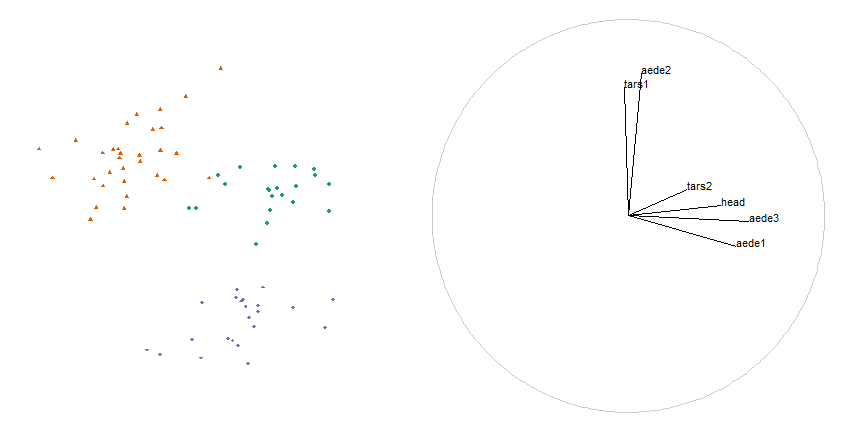
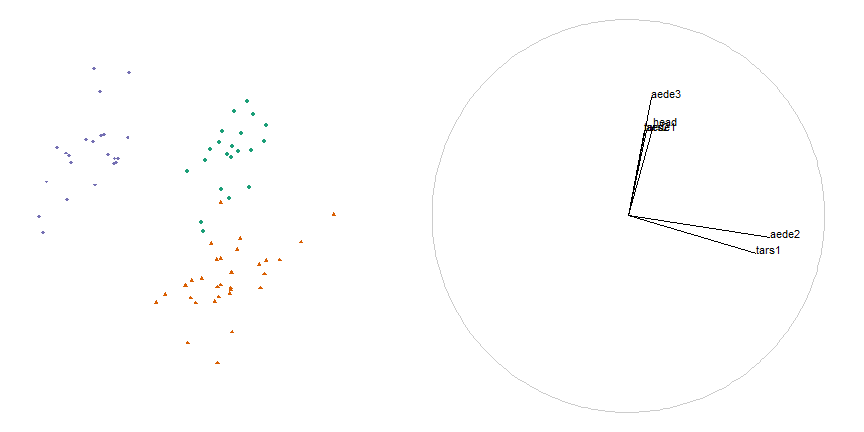
workflo slide and grammerly.

diff --git a/slides_ns.html b/slides_ns.html
@@ -20,7 +20,7 @@ class: center, middle, inverse, title-slide
 
 
 
-# Motivation
+## Motivation
 
 Exploratory data analysis is important and ubiquitous, and it is important to keep visual interpretation: 
 
@@ -30,11 +30,22 @@ Datasaurus dozen; same means, standard deviations, and correlations, *(Matejka &
 
 ---
 
-# Visualizing multivariate spaces
+## Context: data analysis workflow
 
-- Visualization  multivariate spaces becomes complex; dimension reduction
-- One static projection does not portray all of the variation
-- Dynamic rotations do conveys more variation and more accurate structure
+&lt;img src="./images/data_analysis_workflow.png" width="80%" height="80%" style="display: block; margin: auto;" /&gt;
+*Wickham &amp; Grolemund, 2016*
+
+- Visualization is a key aspect of data analysis workflow loop
+- Reproducible from programmatic scripts (&amp; reduced human error)
+- Transparent research hosted publicly on [github](https://github.com/nspyrison).
+
+---
+
+## Visualizing multivariate spaces
+
+- Visualization  multivariate space is complex; dimension reduction
+- Static projections do not portray all of the variation in the data
+- Dynamic rotations do convey more variation and more accurate structure
 
 **Shadow puppet analogy (linear projection from 3- to 2D):**
 
@@ -42,7 +53,7 @@ Datasaurus dozen; same means, standard deviations, and correlations, *(Matejka &
 
 ---
 
-# Dynamic linear projections, tours   
+## Dynamic linear projections, tours   
 
 **Available on CRAN,** `tourr` R package, *(Wickham et al. 2011)*
 
@@ -66,7 +77,7 @@ guided tour - optimizing holes index:
 
 ---
 
-# 3D and immersive 3D data visualization
+## Visualization dimension: 3D and immersive 3D 
 
 Data visualization has lagged behind in adopting 3D and immersive technologies, despite promising finds
 
@@ -88,18 +99,18 @@ Modern VR equipment has improved quality, increased audience, and reduced the co
 
 ---
 
-# Research objectives
+## Research objectives
 &lt;hr&gt;&lt;br&gt;
 
-## 1) How can user-controlled steering (UCS) be generalized to work within graphic-specific environments for 2D projections?
-## 2) Does 2D UCS tours provide benefits over alternatives?
-## 3) How do we extend UCS to 3D?
-## 4) Does UCS in 3D displays provide benefits over 2D displays?
+### 1) How can user-controlled steering (UCS) be generalized to work within graphic-specific environments for 2D projections?
+### 2) Does 2D UCS tours provide benefits over alternatives?
+### 3) How do we extend UCS to 3D?
+### 4) Does UCS in 3D displays provide benefits over 2D displays?
 
 
 ---
 
-# RO 1) How can UCS be generalized to work within graphic-specific environments for 2D projections?
+## RO 1) How can UCS be generalized to work within graphic-specific environments for 2D projections?
 
 - Manual choice - *manual tour* user-controlled manipulation of a selected variable *(Cook &amp; Buja 1997)*
     - Used to explore the sensitivity of the structure to the variables contributing to the projection
@@ -114,14 +125,14 @@ Modern VR equipment has improved quality, increased audience, and reduced the co
 
 ---
 
-# RO1 Step 1) Choose a variable of interest
+## RO1 Step 1) Choose a variable of interest
 
 - Starting with the last projection of the previous holes-indexed guided tour:
 
 
 
 .pull-left[
-&lt;img src="slides_ns_files/figure-html/unnamed-chunk-4-1.png" width="130%" height="130%" style="display: block; margin: auto;" /&gt;
+&lt;img src="slides_ns_files/figure-html/unnamed-chunk-5-1.png" width="130%" height="130%" style="display: block; margin: auto;" /&gt;
 ]
 
 .pull-right[
@@ -136,33 +147,33 @@ Modern VR equipment has improved quality, increased audience, and reduced the co
 &lt;tbody&gt;
   &lt;tr&gt;
    &lt;td style="text-align:left;"&gt; tars1 &lt;/td&gt;
-   &lt;td style="text-align:right;"&gt; -0.0216 &lt;/td&gt;
-   &lt;td style="text-align:right;"&gt; 0.6522 &lt;/td&gt;
+   &lt;td style="text-align:right;"&gt; 0.5626 &lt;/td&gt;
+   &lt;td style="text-align:right;"&gt; -0.2703 &lt;/td&gt;
   &lt;/tr&gt;
   &lt;tr&gt;
    &lt;td style="text-align:left;"&gt; tars2 &lt;/td&gt;
-   &lt;td style="text-align:right;"&gt; 0.3007 &lt;/td&gt;
-   &lt;td style="text-align:right;"&gt; 0.1348 &lt;/td&gt;
+   &lt;td style="text-align:right;"&gt; 0.1659 &lt;/td&gt;
+   &lt;td style="text-align:right;"&gt; 0.4568 &lt;/td&gt;
   &lt;/tr&gt;
   &lt;tr&gt;
    &lt;td style="text-align:left;"&gt; head &lt;/td&gt;
-   &lt;td style="text-align:right;"&gt; 0.4730 &lt;/td&gt;
-   &lt;td style="text-align:right;"&gt; 0.0532 &lt;/td&gt;
+   &lt;td style="text-align:right;"&gt; 0.2855 &lt;/td&gt;
+   &lt;td style="text-align:right;"&gt; 0.2536 &lt;/td&gt;
   &lt;/tr&gt;
   &lt;tr&gt;
    &lt;td style="text-align:left;"&gt; aede1 &lt;/td&gt;
-   &lt;td style="text-align:right;"&gt; 0.5505 &lt;/td&gt;
-   &lt;td style="text-align:right;"&gt; -0.1563 &lt;/td&gt;
+   &lt;td style="text-align:right;"&gt; 0.1462 &lt;/td&gt;
+   &lt;td style="text-align:right;"&gt; 0.4980 &lt;/td&gt;
   &lt;/tr&gt;
   &lt;tr&gt;
    &lt;td style="text-align:left;"&gt; aede2 &lt;/td&gt;
-   &lt;td style="text-align:right;"&gt; 0.0693 &lt;/td&gt;
-   &lt;td style="text-align:right;"&gt; 0.7270 &lt;/td&gt;
+   &lt;td style="text-align:right;"&gt; 0.7108 &lt;/td&gt;
+   &lt;td style="text-align:right;"&gt; -0.2741 &lt;/td&gt;
   &lt;/tr&gt;
   &lt;tr&gt;
    &lt;td style="text-align:left;"&gt; aede3 &lt;/td&gt;
-   &lt;td style="text-align:right;"&gt; 0.6144 &lt;/td&gt;
-   &lt;td style="text-align:right;"&gt; -0.0259 &lt;/td&gt;
+   &lt;td style="text-align:right;"&gt; 0.2189 &lt;/td&gt;
+   &lt;td style="text-align:right;"&gt; 0.5751 &lt;/td&gt;
   &lt;/tr&gt;
 &lt;/tbody&gt;
 &lt;/table&gt;
@@ -172,10 +183,10 @@ Modern VR equipment has improved quality, increased audience, and reduced the co
 
 ---
 
-# RO1 Step 2) Create a manipulation space
+## RO1 Step 2) Create a manipulation space
 
 .pull-left[
-&lt;img src="slides_ns_files/figure-html/unnamed-chunk-6-1.png" width="80%" height="80%" style="display: block; margin: auto;" /&gt;
+&lt;img src="slides_ns_files/figure-html/unnamed-chunk-7-1.png" width="80%" height="80%" style="display: block; margin: auto;" /&gt;
 ]
 
 .pull-right[
@@ -187,18 +198,18 @@ Modern VR equipment has improved quality, increased audience, and reduced the co
 
 ---
 
-# RO1 Step 3) Generate the rotation
+## RO1 Step 3) Generate the rotation
 
 *Over the sequence of angles:* rotate the manipulation space for each element
 
 - Project the data
 - Plot the first two variables of the rotated basis and projection
 
-&lt;img src="slides_ns_files/figure-html/unnamed-chunk-7-1.png" width="40%" height="40%" style="display: block; margin: auto;" /&gt;
+&lt;img src="slides_ns_files/figure-html/unnamed-chunk-8-1.png" width="40%" height="40%" style="display: block; margin: auto;" /&gt;
 
 ---
 
-# Display as an animation
+## Display as an animation
 
 - `aede2` is important for distinguishing between the green and purple clusters
 
@@ -210,7 +221,7 @@ As an [html widget](https://nspyrison.netlify.com/thesis/flea_manualtour_mvar5/)
 
 ---
 
-# Application -- high energy physics
+## Application -- high energy physics
 
 Hadronic collision experiment data, `\(\textbf{X} \in \mathbb{R}^{56}\)`, *(Wang, et al. 2018)*, studied with guided tours *(Cook, et al. 2018)*
 
@@ -234,7 +245,7 @@ Conclusion, PC6 is important in explaining the structural features in the data:
 
 ---
 
-# RO 2) What benefits does UCS provide over alternatives?
+## RO 2) What benefits does UCS provide over alternatives?
 
 *Future work, method: performance comparison*
 
@@ -253,11 +264,11 @@ Design space: data sets, techniques, and measures of comparison
 
 ---
 
-# RO 3) How do we extend UCS to 3D?
+## RO 3) How do we extend UCS to 3D?
 
 *Future work, method: algorithm design*
 
-Extend UCS algorithm to 3D projections and integrate with Immersive Analytics Tool Kit, `IATK`, *(Cordeil 2019)* for common user interface across display devices.
+Extend the UCS algorithm to 3D projections and integrate with Immersive Analytics Tool Kit, `IATK`, *(Cordeil 2019)* for a common user interface across display devices.
 
 - Extend manipulation spaces to 4D, for variable manipulation on 3D scatterplots 
 - multi-dimensional function surfaces
@@ -272,7 +283,7 @@ Extend UCS algorithm to 3D projections and integrate with Immersive Analytics To
 
 ---
 
-# RO 3) How do we extend UCS to 3D? (&amp; function surfaces)
+## RO 3) How do we extend UCS to 3D? (&amp; function surfaces)
 
 *Future work, method: algorithm design*
 
@@ -288,7 +299,7 @@ Extend UCS algorithm to 3D projections and integrate with Immersive Analytics To
 
 ---
 
-# RO 4) Does UCS in 3D displays provide benefits over 2D displays?
+## RO 4) Does UCS in 3D displays provide benefits over 2D displays?
 
 *Future work, method: usability study*
 
@@ -309,7 +320,13 @@ lineup design *(Hofmann et al. 2012)*
 
 ---
 
-# Contributions
+## Contributions
+&lt;hr&gt;&lt;br&gt;
+
+### 1) A modified UCS algorithm and new implementation applied to contemporary high energy physics and astrophysics applications in 2D animation frameworks.
+### 2) A performance comparison of static and interactive UCS projection techniques assessed on benchmark data sets from the recent literature.
+### 3) A new algorithm for UCS in 3D. With new applications to multi-dim function visualization in 3D.
+### 4) Quantitative understanding of the relative benefits of UCS across 2- and 3D display devices.
 
 ---
 
@@ -320,7 +337,7 @@ lineup design *(Hofmann et al. 2012)*
 ---
 class: center, middle
 
-# Thanks!
+## Thanks!
 
 Slides created in R using rmarkdown and xaringan
 
@@ -339,11 +356,13 @@ Slides -- [github.com/nspyrison/confirmation_talk]( https://github.com/nspyrison
 
 ---
 
-# References (1/2)
+## References (1/2)
 
 *In order of appearance:*
 
 Matejka, J., &amp; Fitzmaurice, G. (2017). Same Stats, Different Graphs: Generating Datasets with Varied Appearance and Identical Statistics through Simulated Annealing. In Proceedings of the 2017 CHI Conference on Human Factors in Computing Systems  - CHI ’17 (pp. 1290–1294). Denver, Colorado, USA: ACM Press. https://doi.org/10.1145/3025453.3025912
+
+Wickham, H., &amp; Grolemund, G. (2016). R for Data Science: Import, Tidy, Transform, Visualize, and Model Data. O’Reilly Media, Inc.
 
 Wickham, H., Cook, D., Hofmann, H., &amp; Buja, A. (2011). tourr : An R Package for Exploring Multivariate Data with Projections. Journal of Statistical Software, 40(2). https://doi.org/10.18637/jss.v040.i02
 
@@ -353,11 +372,11 @@ Hurley, C., &amp; Buja, A. (1990). Analyzing High-Dimensional Data with Motion G
 
 Nelson, L., Cook, D., &amp; Cruz-Neira, C. (1998). XGobi vs the C2: Results of an Experiment Comparing Data Visualization in a 3-D Immersive Virtual Reality Environment with a 2-D Workstation Display. Computational Statistics, 14(1), 39–52.
 
-Lee, J. M., MacLachlan, J., &amp; Wallace, W. A. (1986). The Effects of 3D Imagery on Managerial Data Interpretation. MIS Quarterly, 257–269.
-
 ---
 
-# References (2/3)
+## References (2/3)
+
+Lee, J. M., MacLachlan, J., &amp; Wallace, W. A. (1986). The Effects of 3D Imagery on Managerial Data Interpretation. MIS Quarterly, 257–269.
 
 Wickens, C. D., Merwin, D. H., &amp; Lin, E. L. (1994). Implications of Graphics Enhancements for the Visualization of Scientific Data: Dimensional Integrality, Stereopsis, Motion, and Mesh. Human Factors, 36(1), 44–61.
 
@@ -373,7 +392,7 @@ Cook, D., &amp; Buja, A. (1997). Manual Controls for High-Dimensional Data Proje
 
 ---
 
-# References (3/3)
+## References (3/3)
 
 Wang, B.-T., Hobbs, T. J., Doyle, S., Gao, J., Hou, T.-J., Nadolsky, P. M., &amp; Olness, F. I. (2018). Visualizing the sensitivity of hadronic experiments to nucleon structure. ArXiv Preprint ArXiv:1803.02777.
 
